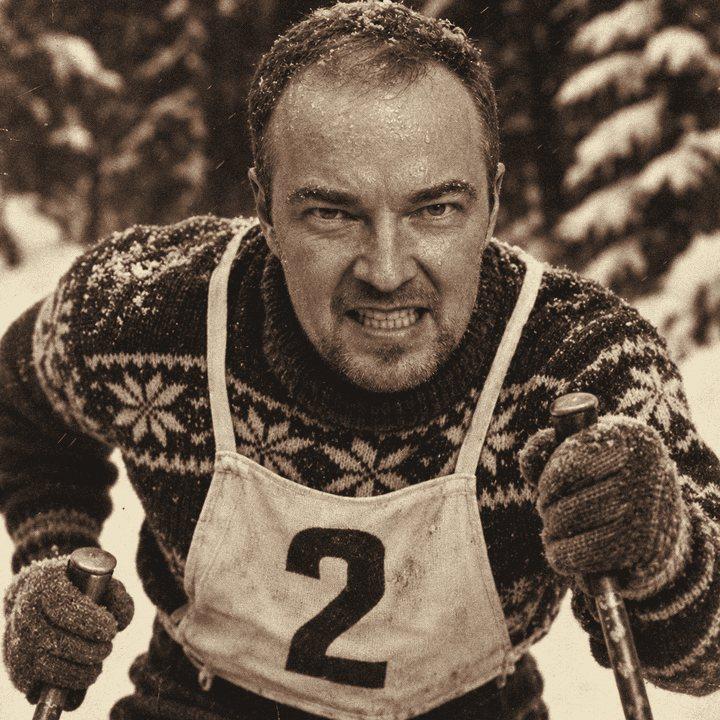
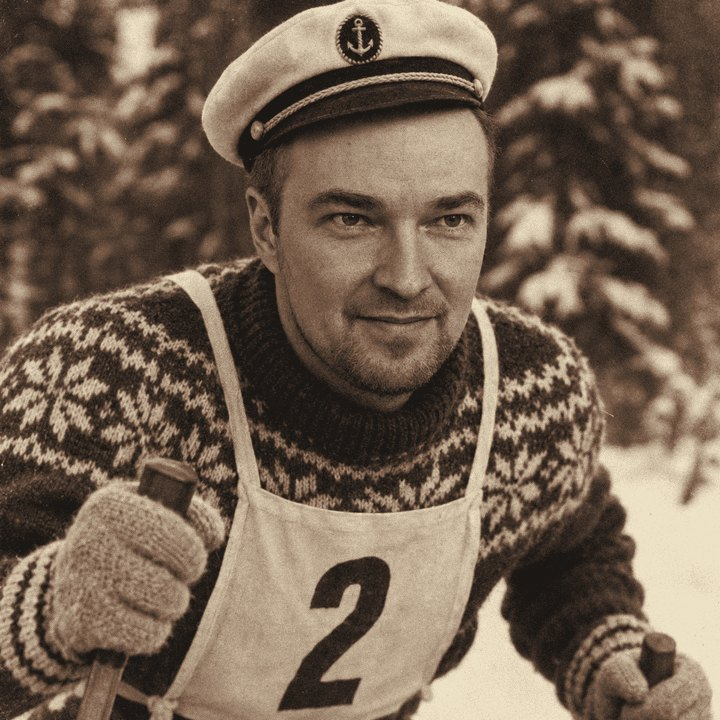
Hiihto: uudet hiihtokuvat oikeista valokuvista, kuvat syötteeseen
Claude-Session: https://claude.ai/code/session_01KSLESKEkWboZ3GnV78ELMy

diff --git a/hiihto/index.html b/hiihto/index.html
@@ -199,6 +199,7 @@ canvas { display: block; width: 100%; }
 .feed li:first-child { font-weight: 600; }
 .feed li span { font-family: var(--f-slab); font-size: 11px; color: var(--muted); font-variant-numeric: tabular-nums; }
 .feed li.hot b { color: var(--red); font-weight: 600; }
+.feed li .fph { float: right; width: 84px; height: 84px; object-fit: cover; margin: 0 0 4px 8px; border: 2px solid var(--ink); }
 .speed { display: grid; grid-template-columns: repeat(3, 1fr); gap: 8px; margin-top: 12px; }
 .speed button { background: transparent; border: 1.5px solid var(--ink); font-weight: 600; font-size: 12px; letter-spacing: 2px; padding: 8px 0; }
 .speed button[aria-pressed="true"] { background: var(--ink); color: var(--on-ink); }
@@ -582,7 +583,7 @@ let tab = 'win';
 let simT = 0, speed = 1, soloStart = null, evIdx = 0, camX = 0, lastBoard = 0, settled = false, beeped = false;
 const mkCache = {};
 const imgs = {};
-SKIERS.forEach(s => ['kasvo'].forEach(v => { const im = new Image(); im.src = `img/${s.id}-${v}.jpg`; imgs[s.id + v] = im; }));
+SKIERS.forEach(s => ['kasvo', 'kaatui', 'maali'].forEach(v => { const im = new Image(); im.src = `img/${s.id}-${v}.jpg`; imgs[s.id + v] = im; }));
 
 // ---------- ääni ----------
 let soundOn = store.get('vw-ski-sound', true), AC = null;
@@ -1106,7 +1107,7 @@ const FALL = ['{n} kaatui. Välineet tarkastetaan, matka jatkuu.', '{n} meni nur
 function narrate(e){
   const n = e.i >= 0 ? nk(e.i) : '';
   switch (e.type) {
-    case 'fall': say(pick(FALL, Math.floor(e.t)).replace('{n}', n), e.t, true); break;
+    case 'fall': say(pick(FALL, Math.floor(e.t)).replace('{n}', n), e.t, true, SKIERS[e.i].id + '-kaatui'); break;
     case 'hissi': say('<b>Godzilla pysähtyi puolivälissä ja kysyi, missä hissi on.</b> Pelivinkki osui.', e.t, true); break;
     case 'ensiapu': say('Godzilla ohitti 5 km:n ensiapupisteen. Henkilökunta jäi valmiuteen.', e.t); break;
     case 'pohje': say('Tuomaristo pysäytti Pohjeen tarkastukseen. Pohkeita ei lasketa välineiksi.', e.t, true); break;
@@ -1124,7 +1125,7 @@ function narrate(e){
     }
     case 'finish': {
       const lead = race.order[0], g = e.ft - race.ft[lead];
-      if (e.pos === 1) { say(`<b>${n} maalissa ${fmt(e.ft)}. Voittaja.</b>`, e.ft, true); bell(true); }
+      if (e.pos === 1) { say(`<b>${n} maalissa ${fmt(e.ft)}. Voittaja.</b>`, e.ft, true, SKIERS[e.i].id + '-maali'); bell(true); }
       else if (e.pos === 2 && g < 1) { say(`<b>Maalikamera:</b> ${n} jäi ${g.toFixed(1).replace('.', ',')} s.`, e.ft, true); bell(false); }
       else if (SKIERS[e.i].id === 'godzilla' && e.pos === race.starters.length) { say(`Godzilla maalissa, ${fmtGap(g)}. Ensiapupiste puretaan.`, e.ft); bell(false); }
       else { say(`${n} maalissa, ${fmtGap(g)}.`, e.ft); bell(false); }
@@ -1134,10 +1135,10 @@ function narrate(e){
 }
 function timeAtDist(i, m){ const X = race.XS; for (let j = 0; j < X.length; j++) if (X[j][i] >= m) return j; return X.length; }
 function gapAtDist(i, lead, m){ return timeAtDist(i, m) - timeAtDist(lead, m); }
-function say(html, t, hot){
+function say(html, t, hot, ph){
   const li = document.createElement('li');
   if (hot) li.className = 'hot';
-  li.innerHTML = `<span>${fmt(t)}</span><div>${html}</div>`;
+  li.innerHTML = `<span>${fmt(t)}</span><div>${ph ? `<img class="fph" src="img/${ph}.jpg" alt="">` : ''}${html}</div>`;
   const f = $('feed'); f.prepend(li);
   while (f.children.length > 5) f.lastChild.remove();
 }
